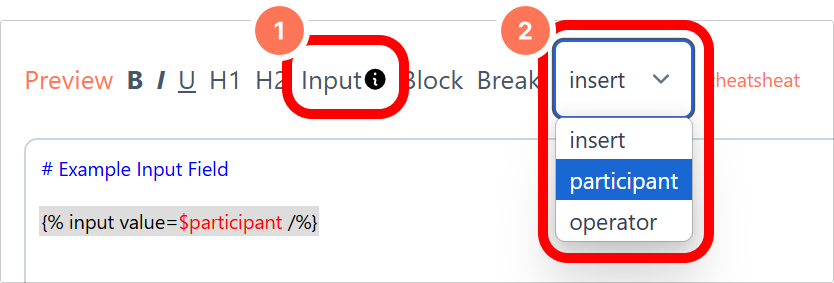
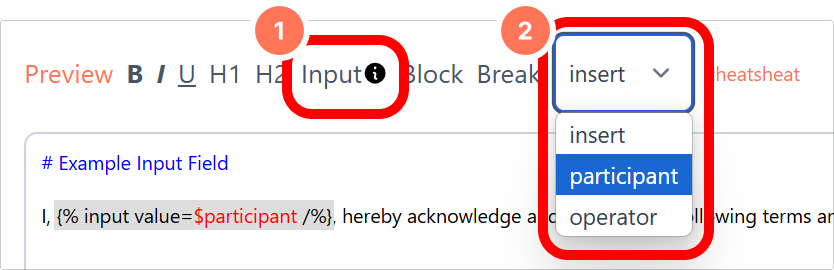
Custom Waiver article update

diff --git a/diversdesk/src/content/docs/articles/custom_waiver.md b/diversdesk/src/content/docs/articles/custom_waiver.md
@@ -86,30 +86,26 @@ Selecting **'Input'** followed by **'Participant'** will create a fixed input fi
   />
 </div>
 
-#### Place the 'Operator Name'
+Previewing this field will display it as shown in the example below. </br>
+During your customer’s onboarding process, this field is prefilled with their name.
 
-Selecting both 'Bold' and **'operator'** after each other will create the following.
-```html
-**{% $operator %}**
-```
-<div class="w-full md:w-9/12" style="margin-left: 0;">
+<div class="w-full md:w-4/6" style="margin-left: 0;">
   <img 
-    src="/images/bold-operator-name.png" 
+    src="/images/input-field-with-participant-name-2.png" 
     alt="Create a new waiver through the 'Create' hyperlink"
   />
 </div>
-
 
 #### Input Field With an Edible prefilled Text
 
 After selecting **'Input'**, you can also add a fixed custom text may this be required **'Participant'** after each other will create the following.
 ```html
-**{% $operator %}**
+{% input name="default_value" defaultValue="Default Value" required=true/%}
 ```
 After adding the 'Input field', you can write custom text to the  to the 
-<div class="w-full md:w-9/12" style="margin-left: 0;">
+<div class="w-full md:w-3/5" style="margin-left: 0;">
   <img 
-    src="/images/input-field-with-custom-text.png" 
+    src="/images/input-field-with-default-value.png" 
     alt="Create a new waiver through the 'Create' hyperlink"
   />
 </div>
